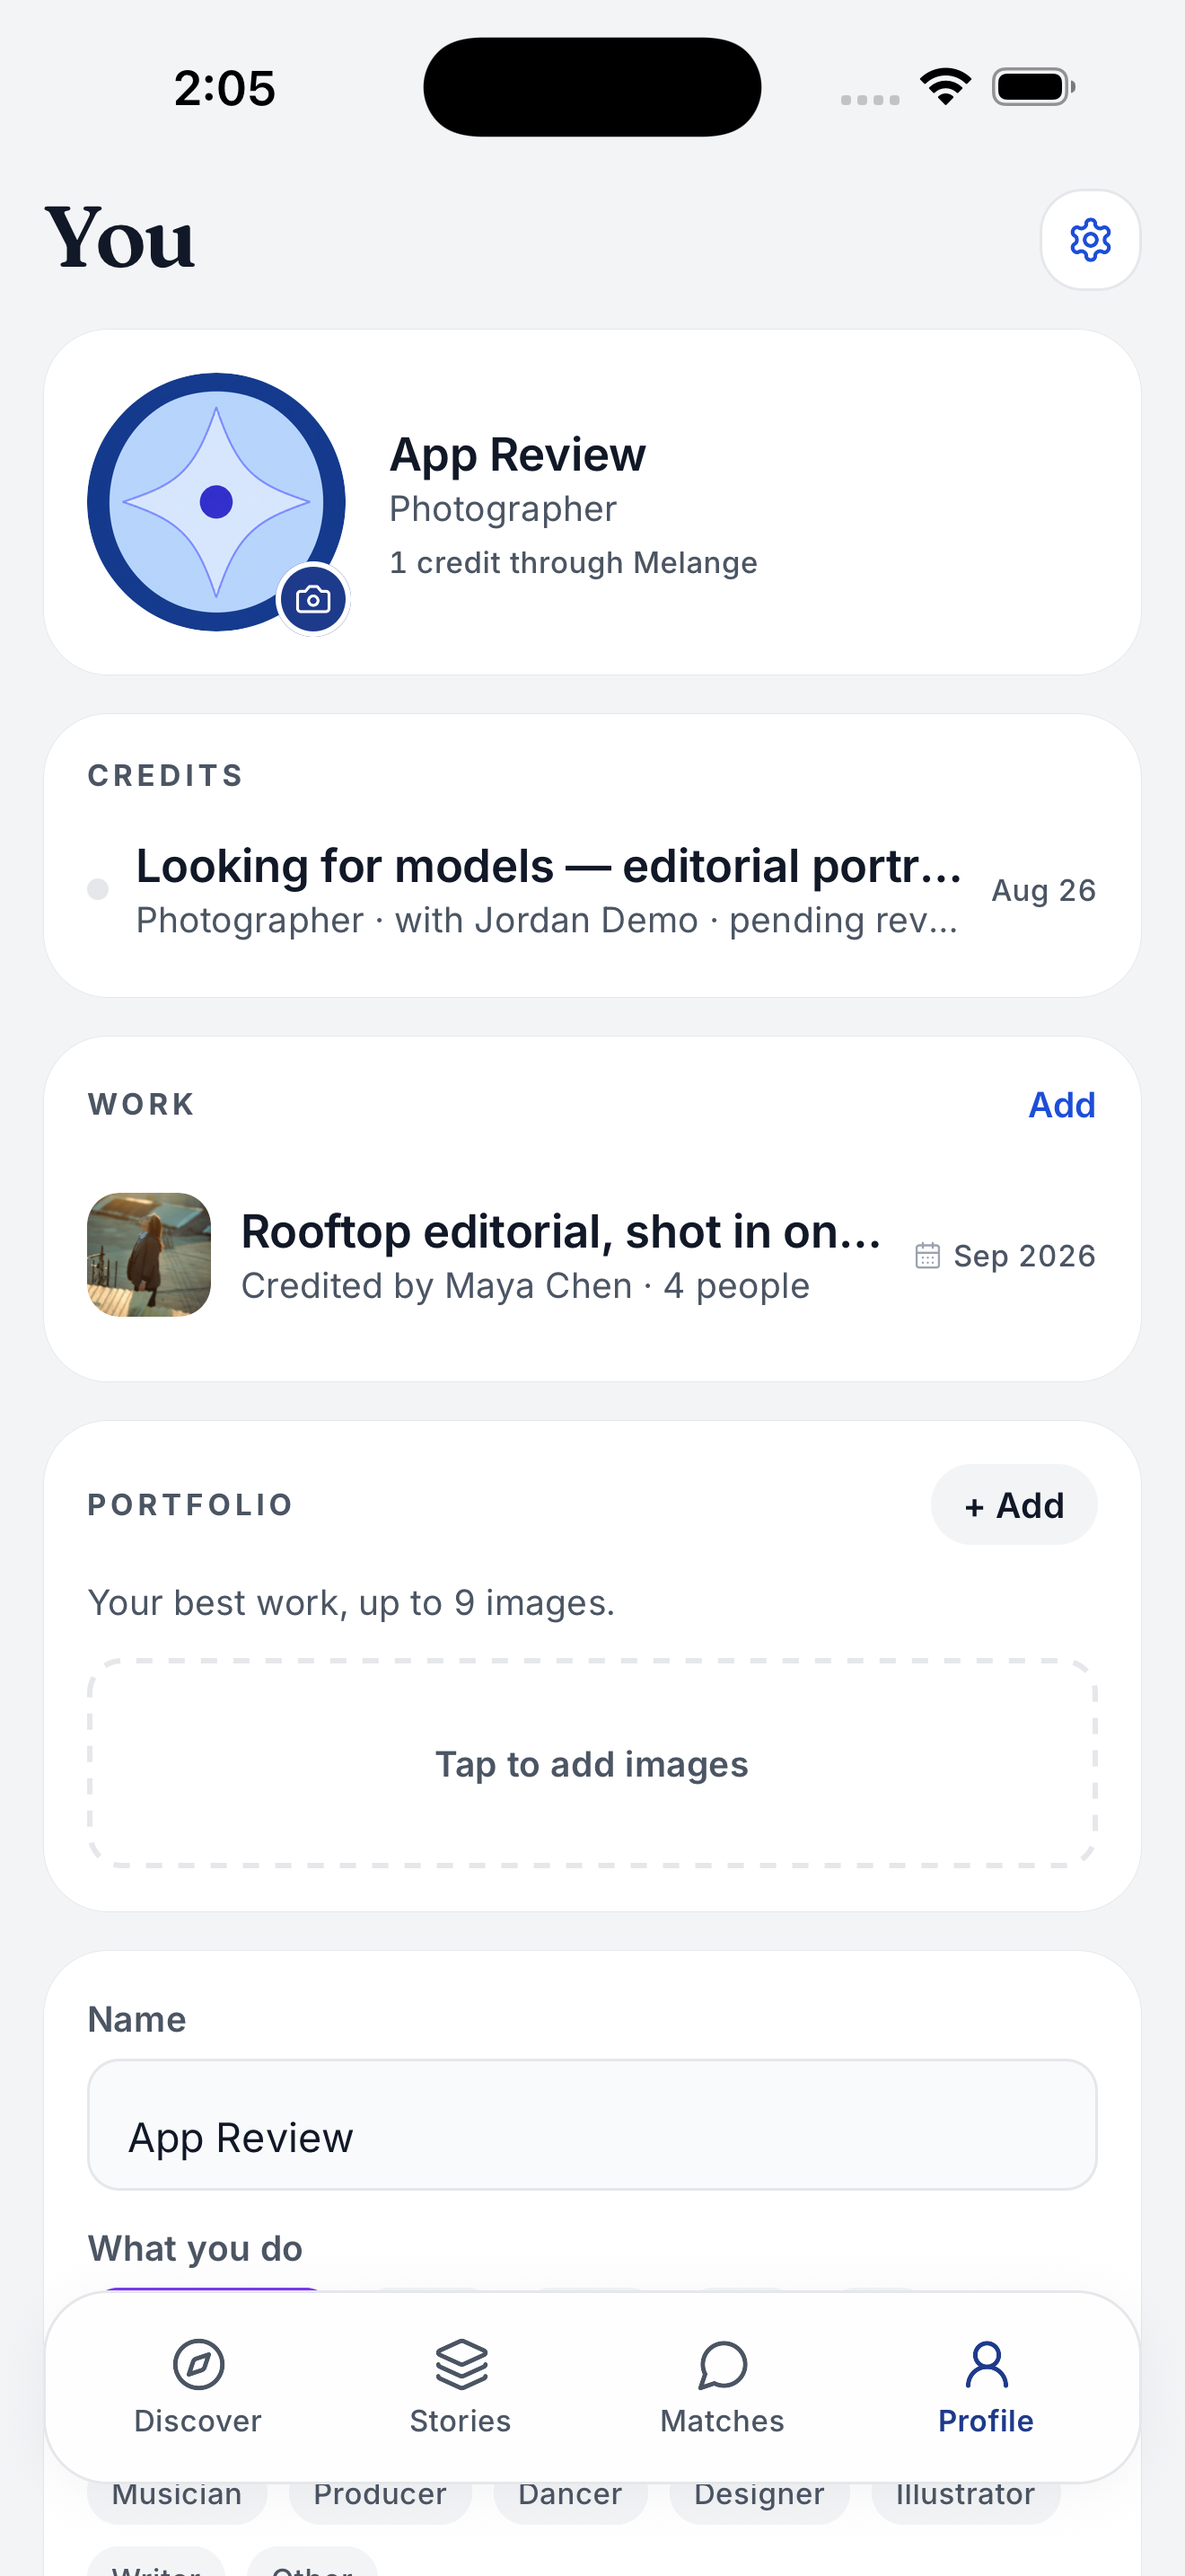
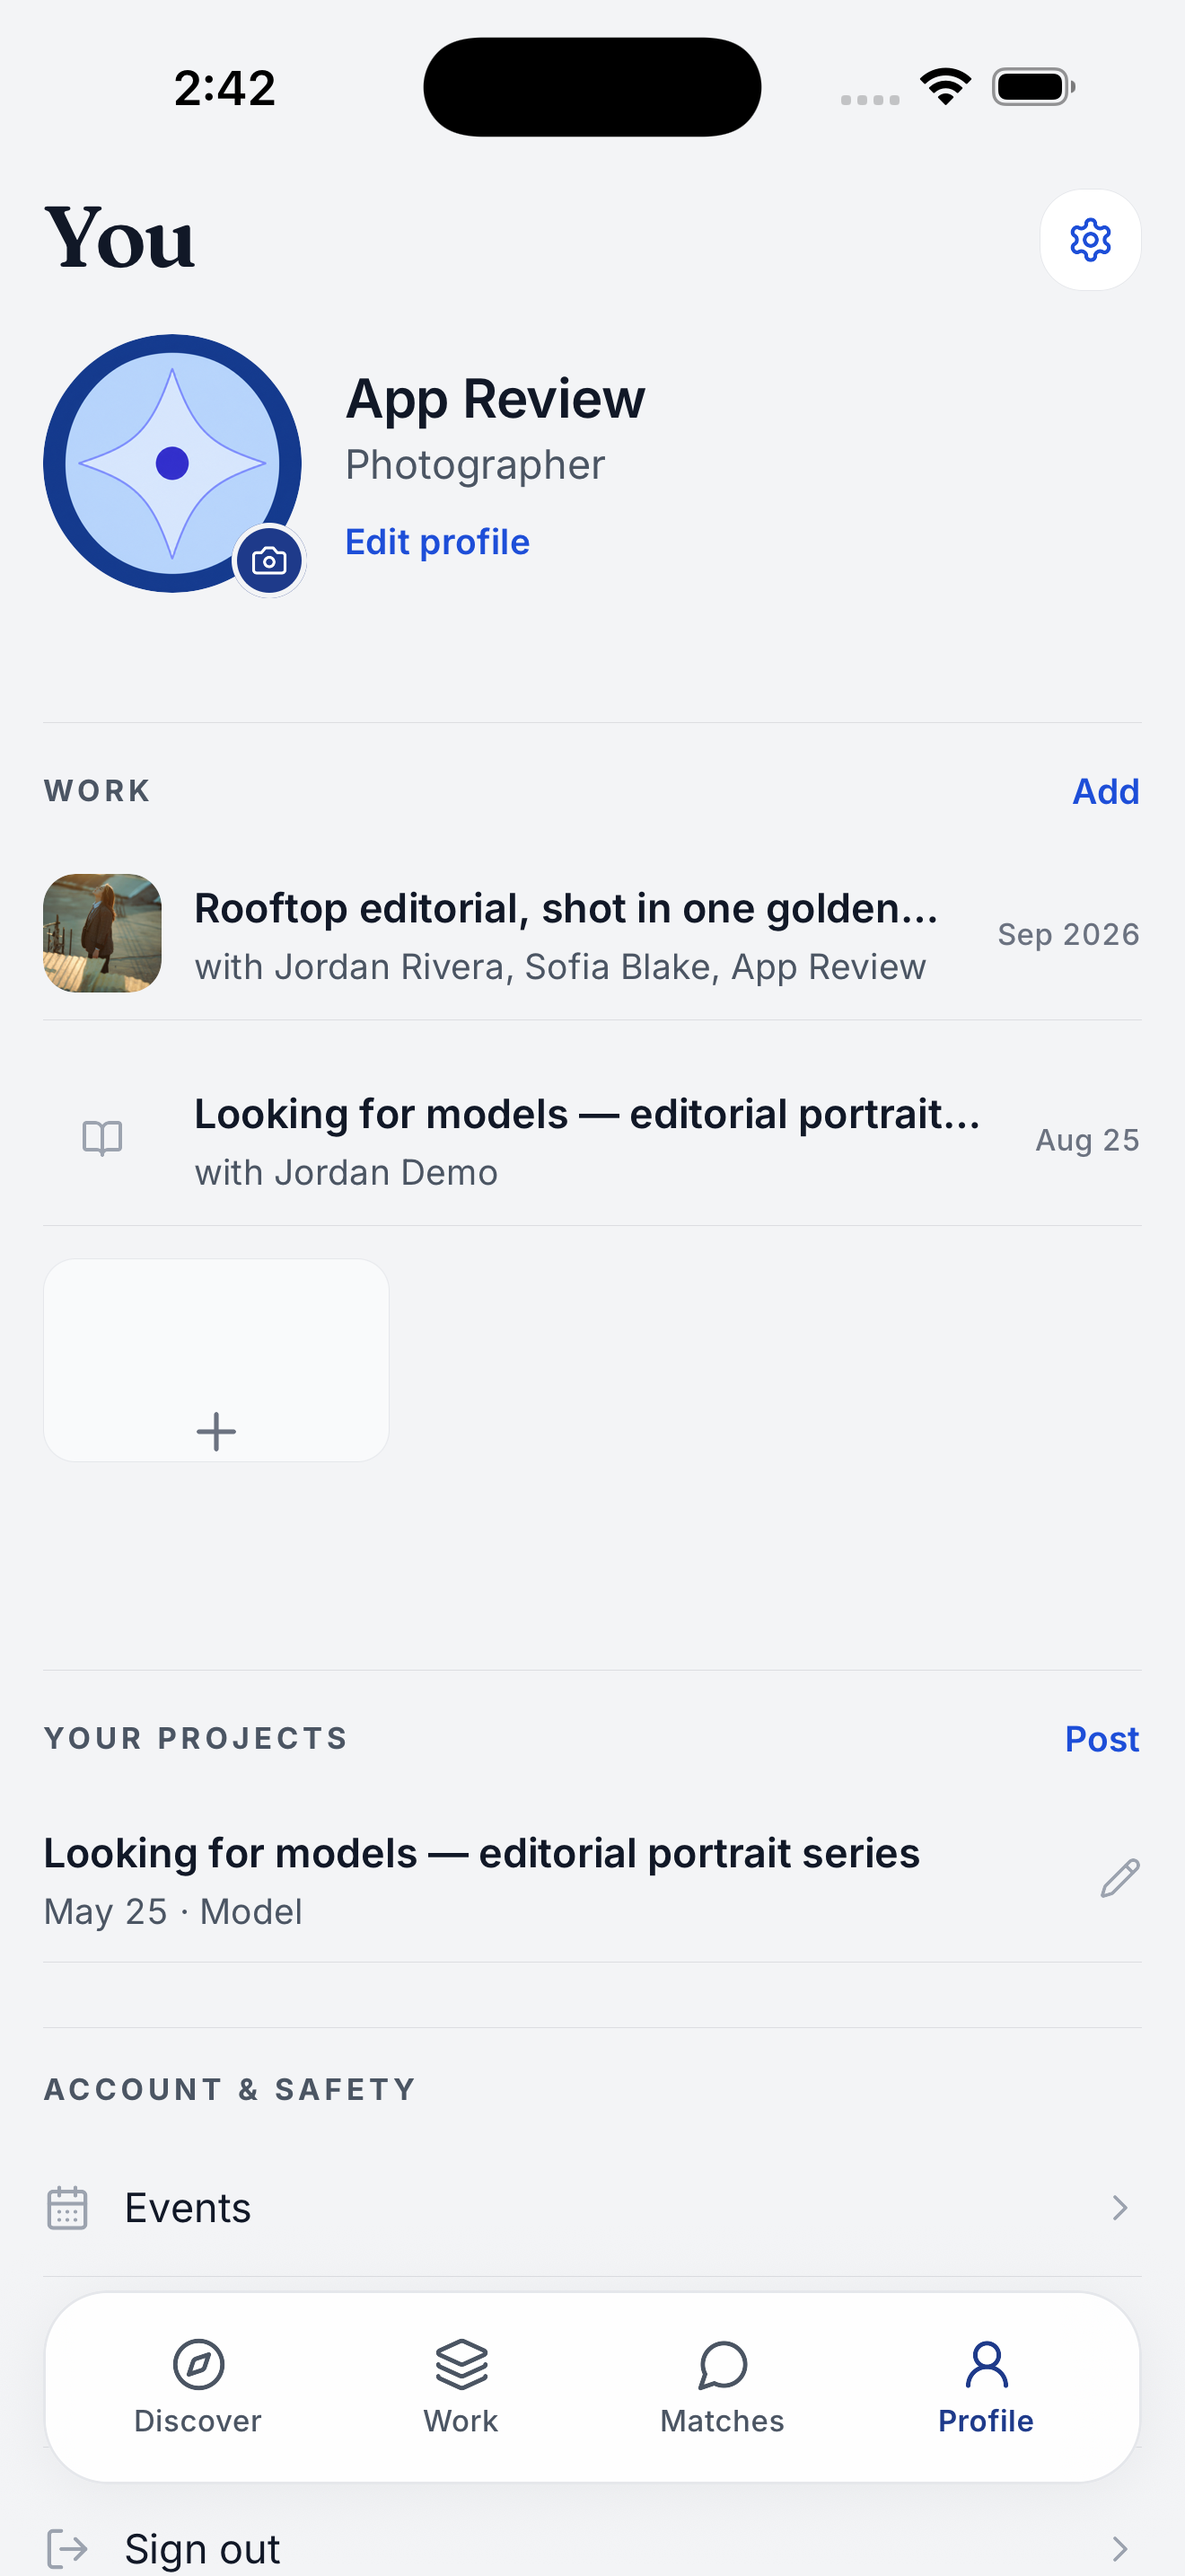
Readable grouping headers, time at pauses, real screenshots
A project title set in the eyebrow rank was uppercased with 1.65 tracking
and truncated three words in — it is a proper noun, not a label, so it
drops to sentence case.

Chat timestamps: "only the last bubble of a run" does nothing when two
people alternate, since every message ends its own run. Time now marks a
pause — the last message, or one followed by a gap over fifteen minutes.
Four stamps became one.

formatListTime stops emitting slashes. Simulator helpers committed so the
next pass does not rediscover kCGSessionEventTap and the activate step.

diff --git a/mobile/app/chat/[matchId].tsx b/mobile/app/chat/[matchId].tsx
@@ -303,10 +303,17 @@ export default function ChatScreen() {
               const prev = messages[index - 1];
               const next = messages[index + 1];
               const sameAuthorBefore = prev && prev.sender_id === item.sender_id;
-              // A run of messages from one person is one block: only its last
-              // bubble is timestamped, and only its outer corners are round.
-              // Stamping every bubble turns a conversation into a log.
-              const endsRun = !next || next.sender_id !== item.sender_id;
+              // Stamping every bubble turns a conversation into a log, and
+              // "only the last of a run" does nothing when two people are
+              // alternating — every message is the end of its own run. Time
+              // marks a pause instead: the last message, or one followed by a
+              // gap of more than a quarter of an hour.
+              const GAP_MS = 15 * 60 * 1000;
+              const endsRun =
+                !next ||
+                new Date(next.created_at).getTime() -
+                  new Date(item.created_at).getTime() >
+                  GAP_MS;
               return (
                 <View
                   style={[

diff --git a/mobile/app/(tabs)/profile.tsx b/mobile/app/(tabs)/profile.tsx
@@ -15,7 +15,7 @@ import * as ImagePicker from "expo-image-picker";
 import { useSafeAreaInsets } from "react-native-safe-area-context";
 import { useRouter } from "expo-router";
 import {
-  BookOpen,
+  ImageIcon,
   CalendarDays,
   Camera,
   ChevronRight,
@@ -335,7 +335,7 @@ export default function ProfileScreen() {
                 <Image source={{ uri: w.image }} style={styles.thumb} />
               ) : (
                 <View style={[styles.thumb, styles.thumbEmpty]}>
-                  <BookOpen size={16} color={colors.iconFaint} />
+                  <ImageIcon size={16} color={colors.iconFaint} strokeWidth={1.6} />
                 </View>
               )}
               <View style={{ flex: 1 }}>
@@ -538,7 +538,7 @@ const styles = StyleSheet.create({
   creditDotOn: { backgroundColor: colors.accent },
   muted: { ...typography.caption, color: colors.textSecondary },
 
-  grid: { flexDirection: "row", flexWrap: "wrap", gap: spacing.sm },
+  grid: { flexDirection: "row", flexWrap: "wrap", gap: spacing.sm, marginTop: spacing.xs },
   tile: {
     width: "31.5%",
     aspectRatio: 1,

diff --git a/mobile/src/lib/format.ts b/mobile/src/lib/format.ts
@@ -29,7 +29,9 @@ export function formatListTime(iso: string): string {
   if (hrs < 24) return `${hrs}h`;
   const days = Math.floor(hrs / 24);
   if (days < 7) return then.toLocaleDateString([], { weekday: "short" });
-  return then.toLocaleDateString([], { month: "numeric", day: "numeric" });
+  // Never slashes: "8/25" is the 25th of August to half the world and the
+  // August of 2025 to the other half.
+  return then.toLocaleDateString([], { day: "numeric", month: "short" });
 }
 
 /**

diff --git a/mobile/app/(tabs)/messages.tsx b/mobile/app/(tabs)/messages.tsx
@@ -382,7 +382,12 @@ const styles = StyleSheet.create({
     paddingTop: 22,
     paddingBottom: 8,
   },
-  projectTitle: { ...typography.eyebrow, color: colors.textSecondary, flex: 1 },
+  projectTitle: {
+    ...typography.caption,
+    fontFamily: fonts.semibold,
+    color: colors.textSecondary,
+    flex: 1,
+  },
   projectCount: { ...typography.micro, color: colors.textTertiary },
 
   /* Plain rows on the ground with a hairline between them — the iOS list
